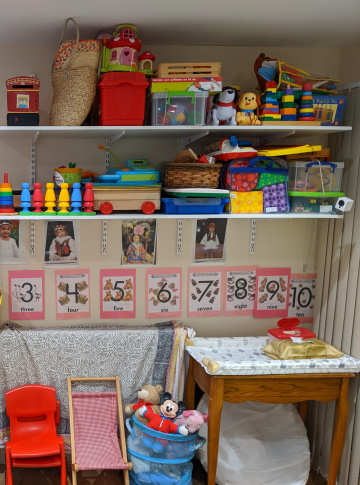
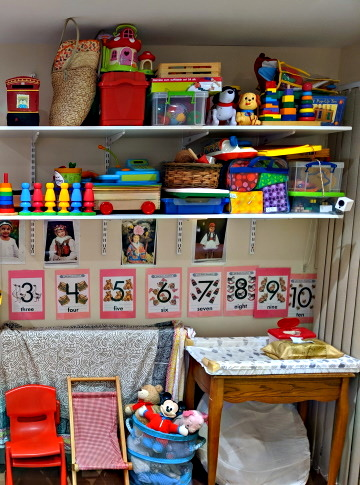
Sharpen images

diff --git a/index.html b/index.html
@@ -422,7 +422,7 @@
             <img src="assets/images/testimonial/shape.png" alt="testimonial">
         </div>
         <div class="container">
-            <div class="testimonial-bg bg_cover pt-80 pb-80" style="background-image: url(assets/images/testimonial/testimonial-bg.jpg)">
+            <div class="testimonial-bg bg_cover pt-80 pb-80" style="background-image: url(assets/images/testimonial/testimonial-bg.png)">
                 <div class="row">
                     <div class="col-xl-4 offset-xl-7 col-lg-5 offset-lg-6 col-md-8 offset-md-2 col-sm-10 offset-sm-1">
                         <div class="testimonial-active">

diff --git a/assets/css/style.css b/assets/css/style.css
@@ -663,7 +663,7 @@ p {
       font-size: 15px;
       font-weight: 600;
       font-family: 'Barlow', sans-serif;
-      color: #EB3656;
+      color: #000000;
       text-transform: uppercase;
       margin-left: 70px; }
       .header-banner .banner-content .banner-contact::before {
